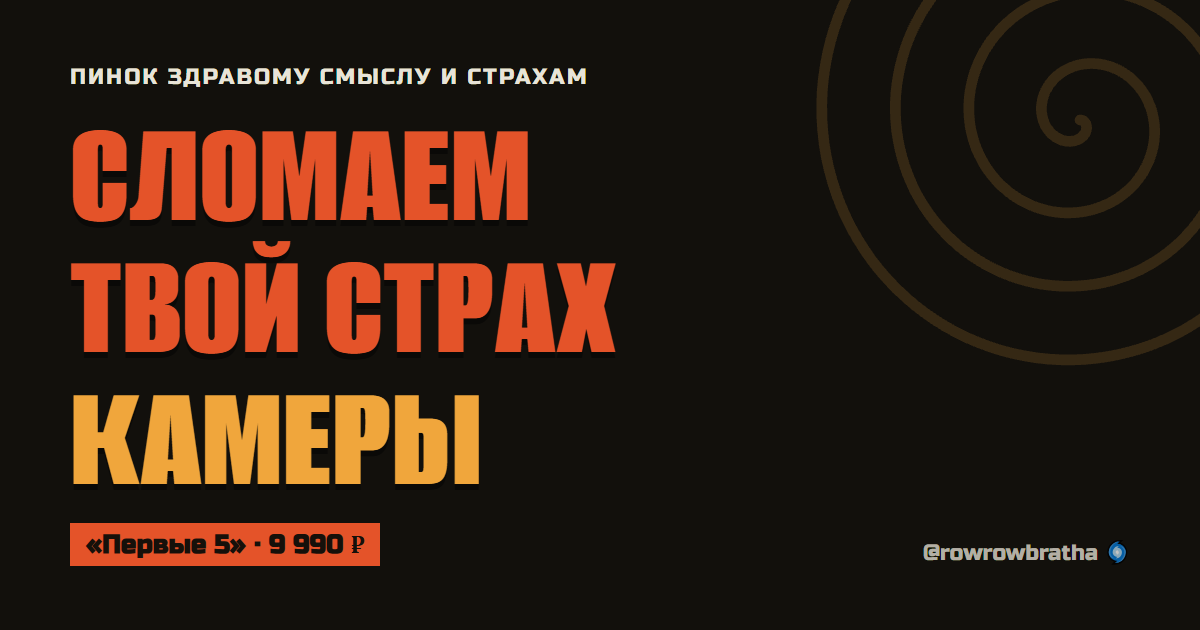
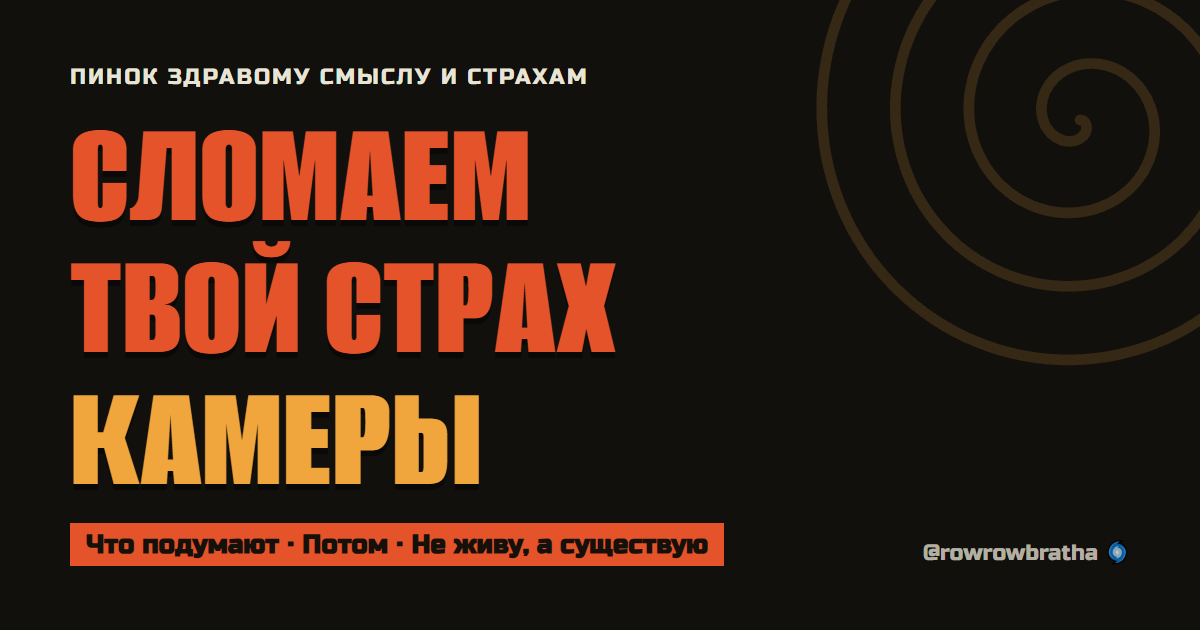
личные разборы закрыты: вместо «Первых 5» и Пинка три продукта с листом ожидания в боте; правила про оплату и возврат продуктов (решение Максима 10.10)

Changed region(s): [[0.0617, 0.8143, 0.6167, 0.9048]]

diff --git a/index.html b/index.html
@@ -4,13 +4,13 @@
 <meta charset="UTF-8">
 <meta http-equiv="Content-Security-Policy" content="default-src 'none'; script-src 'unsafe-inline'; style-src 'unsafe-inline' https://fonts.googleapis.com; font-src https://fonts.gstatic.com; img-src 'self' data:; base-uri 'self'; form-action 'self'; object-src 'none'">
 <meta name="viewport" content="width=device-width, initial-scale=1.0">
-<title>Максим | Сломаем твой страх камеры. «Первые 5»</title>
-<meta name="description" content="Боишься снимать? «Первые 5»: с мертвого профиля до 5 выложенных рилсов за месяц. По-братски, без мотивационного сиропа.">
+<title>Максим | Сломаем твой страх камеры</title>
+<meta name="description" content="Три продукта Максима по 7 дней: «Что подумают», «Потом», «Не живу, а существую». Покупаешь и проходишь сам в Telegram, без созвонов. Плюс бесплатно: квиз, методичка, ИИ-Напарник.">
 <link rel="canonical" href="https://mderyugin.github.io/dapowah/">
 <meta name="theme-color" content="#12100C">
 <meta property="og:type" content="website">
 <meta property="og:title" content="Сломаем твой страх камеры">
-<meta property="og:description" content="«Первые 5»: с мертвого профиля до 5 выложенных рилсов за месяц. 6 личных встреч. Гарантия.">
+<meta property="og:description" content="Три продукта по 7 дней: «Что подумают», «Потом», «Не живу, а существую». Покупаешь и проходишь сам, без созвонов.">
 <meta property="og:url" content="https://mderyugin.github.io/dapowah/">
 <meta property="og:image" content="https://mderyugin.github.io/dapowah/og.png">
 <meta property="og:image:width" content="1200">
@@ -185,6 +185,14 @@
   .price small{font-family:'Golos Text';font-size:.85rem;font-weight:600;display:block;letter-spacing:0;text-transform:none}
   .guarantee{font-size:.92rem;font-weight:600;border-top:2px solid var(--ink);padding-top:10px}
   .offer .cta:hover{background:var(--ink);color:var(--dark)}
+  .prods{display:grid;gap:16px;position:relative;z-index:1;margin-top:8px}
+  .prod{border:3px solid var(--ink);padding:22px 24px;display:grid;grid-template-columns:64px 1fr auto;gap:20px;align-items:center;background:rgba(18,16,12,.18)}
+  .prod-n{font-family:'Russo One';font-size:2rem;color:var(--amber);line-height:1}
+  .prod b{font-family:'Russo One';font-weight:400;text-transform:uppercase;font-size:clamp(1.2rem,2.4vw,1.6rem);display:block;margin-bottom:6px;letter-spacing:.01em}
+  .prod p{font-size:.98rem;font-weight:600;max-width:60ch}
+  .prod .cta{white-space:nowrap}
+  .prods-note{margin-top:16px;font-family:'Underdog',cursive;color:var(--amber);font-size:1.05rem;position:relative;z-index:1}
+  @media(max-width:760px){.prod{grid-template-columns:1fr;gap:10px}.prod-n{font-size:1.4rem}.prod .cta{width:100%}}
   .offer-spiral{position:absolute;right:-140px;top:-140px;width:420px;height:420px;opacity:.10;pointer-events:none;animation:spin 26s linear infinite}
 
   /* ===== STEPS / FINAL (dark) ===== */
@@ -242,7 +250,7 @@
 </style>
 </head>
 <body>
-<a class="skip" href="#offer">К программе «Первые 5»</a>
+<a class="skip" href="#offer">К продуктам</a>
 
 <!-- ============ HERO ============ -->
 <section class="hero">
@@ -259,7 +267,7 @@
     <div class="hero-spiral" id="spiral1"></div>
     <svg class="kamina" viewBox="0 0 120 90" aria-hidden="true"><path d="M66 4 L28 50 L52 50 L44 86 L92 34 L64 34 Z" fill="var(--fire)" stroke="var(--fire)" stroke-width="3" stroke-linejoin="round"/></svg>
     <h1>Сломаем<br><span class="out">твой страх</span><br><span class="inkline">камеры</span></h1>
-    <p class="hero-tag micro">«Первые 5» · 5 выложенных рилсов за месяц · 6 личных встреч</p>
+    <p class="hero-tag micro">три продукта по 7 дней · покупаешь и проходишь сам · без созвонов</p>
   </div>
 
   <div class="hero-bottom">
@@ -268,9 +276,9 @@
       <span class="hand">не веришь в себя? норм. я верю за двоих.</span>
     </p>
     <div>
-      <p class="cta-note">разбор: гляну твой профиль и скажу голосом, где течет и что чинить первым</p>
+      <p class="cta-note">«Что подумают», «Потом», «Не живу, а существую»: отметь свой, и бот пришлет его первым в день выхода</p>
       <div class="hero-cta">
-        <a class="cta" href="https://t.me/dapowah_bot?start=site">Пиши «РАЗБОР»</a>
+        <a class="cta" href="#offer">Три продукта</a>
         <a class="cta ghost" href="cab/">Забрать бесплатное</a>
       </div>
     </div>
@@ -338,54 +346,38 @@
   </div>
 </section>
 
-<!-- ============ ОФФЕР (розовый блок) ============ -->
+<!-- ============ ПРОДУКТЫ (бывший оффер «Первые 5», личная работа закрыта 10.10.2026) ============ -->
 <section class="offer" id="offer">
-  <div class="offer-five" aria-hidden="true">5</div>
+  <div class="offer-five" aria-hidden="true">3</div>
   <div class="offer-spiral" id="spiral2"></div>
   <div class="wrap">
   <div class="micro" style="color:rgba(232,228,216,.75)">[ SIDE B · ЗА ДЕНЬГИ ]</div>
-  <div class="offer-grid">
-    <div class="offer-left">
-    <h2 class="head display">Первые <span class="out">5</span></h2>
-    <p class="sub">5 выложенных рилсов за месяц и система, по которой снимаешь сам</p>
-    <p class="why">Тебе будут говорить, что страх камеры это нормально и со временем пройдет. Сам он не проходит. Мы не ждем, мы снимаем 5 роликов за месяц.</p>
-    <ul>
-      <li>Разбор профиля как тестировщик: где течет в шапке, первых секундах и первых кадрах, с точными правками</li>
-      <li>Находим твою тему и твоего зрителя, чтобы это был ты, а не косплей чужого блога</li>
-      <li>Готовый план 5 рилсов: тема, первые секунды и структура каждого. Тебе остается нажать «запись»</li>
-      <li>6 личных встреч: один разбор и по встрече на каждый ролик, пока не начнешь снимать сам</li>
-    </ul>
-    <div class="bonus">
-      <div class="bonus-title">Бонусом сверху</div>
-      <ul>
-      <li>2 недели поддержки в личке после шестой встречи, чтобы ты не пропал, когда программа кончится</li>
-      <li>Разбор цифр твоих первых роликов: смотрим, на какой секунде тебя бросают, чиним следующие</li>
-      <li>Банк 15 идей под твою тему, чтобы было что снимать дальше</li>
-      </ul>
+  <h2 class="head display">Три <span class="out">продукта</span></h2>
+  <p class="sub">7 дней каждый. Покупаешь сам, проходишь сам, прямо в Telegram</p>
+  <p class="why">Голос «не сейчас» держит тебя не только у камеры. Он же решает, что подумают свои, что подождет до понедельника и зачем вообще все это. Внутри то, через что я прошел сам, и выжимка из книг по теме. В день одно короткое чтение и одно дело минут на 10.</p>
+  <div class="prods">
+    <div class="prod">
+      <span class="prod-n">01</span>
+      <div><b>«Что подумают»</b><p>Для тех, кто перед каждым шагом прикидывает, что скажут свои: родня, коллеги, бывшие одноклассники. Новая куртка, ролик, увольнение, неважно что.</p></div>
+      <a class="cta" href="https://t.me/dapowah_bot?start=wait_chto">Хочу первым</a>
     </div>
+    <div class="prod">
+      <span class="prod-n">02</span>
+      <div><b>«Потом»</b><p>Для тех, у кого важное дело лежит месяцами, а день уходит на мелочи и ленту. Разберешь, почему ты откладываешь именно его, и сдвинешь с места.</p></div>
+      <a class="cta" href="https://t.me/dapowah_bot?start=wait_potom">Хочу первым</a>
     </div>
-    <div class="price-box">
-      <div class="price">9 990 <span class="rub">₽</span><small>6 встреч один на один · без марафонов</small></div>
-      <div class="permeet">выходит 1 665 рублей за встречу</div>
-      <div class="slots" style="font-weight:600">Можно пополам: 5 000 сейчас, 4 990 после третьей встречи.</div>
-      <div class="guarantee">Гарантия: прошел все встречи и не выложил ни одного ролика? Верну деньги.</div>
-      <div class="slots">Беру мало людей за раз: 6 встреч это 6 моих вечеров. Есть ли место в этом месяце? Жми кнопку и спроси.</div>
-      <a class="cta" href="https://t.me/dapowah_bot?start=site_price">Пиши «РАЗБОР»</a>
+    <div class="prod">
+      <span class="prod-n">03</span>
+      <div><b>«Не живу, а существую»</b><p>Для тех, кто живет на автопилоте: работа, дом, лента, и непонятно, чего хочется. Найдешь, что тебе правда нужно, без сказок про предназначение.</p></div>
+      <a class="cta" href="https://t.me/dapowah_bot?start=wait_zhivu">Хочу первым</a>
     </div>
   </div>
-
-  <div class="pinok">
-    <div>
-      <b>Не готов к «Первым 5»?</b>
-      <p>Возьми «Пинок» за 990 ₽: экспресс-разбор твоего профиля голосом, три точные правки и план первого ролика. За 48 часов. Решишь взять «Первые 5» в течение месяца? Эти 990 зачту.</p>
-    </div>
-    <a class="cta" href="https://t.me/dapowah_bot?start=pinok">Пиши «ПИНОК»</a>
-  </div>
+  <p class="prods-note">Продукты в работе. Жми «Хочу первым»: бот запомнит и пришлет тебе первым, как только выйдет.</p>
 
   <div class="pinok">
     <div>
       <b>А бесплатно есть?</b>
-      <p>Есть. «ИИ-Напарник»: помощник по рилсам, собранный на моем методе и в моем стиле. Знает пятерых поименно, разбирает начало ролика, страхи и цифры. В три ночи тоже отвечает. Первые 5 вопросов бесплатно. Это нейросеть, не живой я. Живой я по слову РАЗБОР.</p>
+      <p>Есть. «ИИ-Напарник»: помощник по рилсам, собранный на моем методе и в моем стиле. Знает пятерых поименно, разбирает начало ролика, страхи и цифры. В три ночи тоже отвечает. Первые 5 вопросов бесплатно. Это нейросеть, не живой я.</p>
     </div>
     <a class="cta ghost" href="https://t.me/dapowah_bot?start=site_ai">Спросить ИИ-Напарника</a>
   </div>
@@ -395,14 +387,14 @@
 <!-- ============ КАК ПРОХОДИТ + ФИНАЛ ============ -->
 <section class="final">
   <div class="wrap">
-  <div class="micro" style="color:var(--grey)">[ 6 ВСТРЕЧ · БЕЗ МАРАФОНОВ ]</div>
+  <div class="micro" style="color:var(--grey)">[ 7 ДНЕЙ · БЕЗ СОЗВОНОВ ]</div>
   <h2 class="head display">Как это <span>проходит</span></h2>
   <ol class="steps">
-    <li>Пишешь «РАЗБОР» боту и отвечаешь на три коротких вопроса о себе</li>
-    <li>Смотрю профиль до созвона, выписываю, что бросается в глаза</li>
-    <li>Первый ролик выходит уже на первой встрече. Барьер падает сразу</li>
-    <li>Все, что решаем, отправляю текстом. Ничего не теряется</li>
-    <li>Через пару дней спрошу: «ну что, снял?» И это сработает</li>
+    <li>Жмешь «Хочу первым» под своим продуктом, бот запоминает</li>
+    <li>В день выхода бот присылает его тебе первым</li>
+    <li>Платишь один раз прямо в Telegram</li>
+    <li>День 1 приходит сразу, дальше по дню в сутки</li>
+    <li>Каждый день: короткое чтение и одно дело минут на 10</li>
   </ol>
 
   <p class="doubt">Сомневаешься? Нормально. Сомнение и есть тот голос, про который весь мой блог. Я знаю цену этой веры: месяцы «подготовки», удаленные ролики, чужие блоги, которые растут.</p>
@@ -412,12 +404,12 @@
   <footer class="micro">
     <span>Максим · rowrowbratha</span>
     <span><a href="https://instagram.com/rowrowbratha">Instagram</a> · <a href="https://t.me/rowrowbratha">Telegram-канал</a> · <a href="legal/">Правила и данные, без мелкого шрифта</a></span>
-    <span>отзывы · только реальные, с первыми клиентами</span>
+    <span>отзывы · только реальные, с первыми покупателями</span>
   </footer>
   </div>
 </section>
 
-<div class="sticky-cta"><a class="cta" href="https://t.me/dapowah_bot?start=site_sticky">Пиши «РАЗБОР»</a></div>
+<div class="sticky-cta"><a class="cta" href="#offer">Три продукта</a></div>
 
 <script>
 (function(){

diff --git a/cab/index.html b/cab/index.html
@@ -59,9 +59,8 @@
 
   <div class="sect">Дальше</div>
   <a class="card" href="https://t.me/rowrowbratha"><b>Канал</b><span>разборы, дубли, цифры и провалы, все живое</span></a>
-  <a class="card" href="https://mderyugin.github.io/dapowah/" target="_blank" rel="noopener"><b>🔥 Сайт: «Первые 5»</b><span>кто я, что за программа и сколько стоит</span></a>
-  <button class="card" onclick="razbor('pinok')"><b>👊 Пинок за 990 рублей</b><span>экспресс-разбор профиля голосом за 48 часов. Напиши боту слово ПИНОК. Возьмешь потом «Первые 5»? 990 зачтутся</span></button>
-  <button class="card" onclick="razbor('razbor')"><b>✍ Разбор профиля от Максима</b><span>«Первые 5»: разбор профиля, план 5 рилсов и 6 личных встреч. Напиши боту слово РАЗБОР, ответит лично</span></button>
+  <a class="card" href="https://mderyugin.github.io/dapowah/" target="_blank" rel="noopener"><b>🔥 Сайт</b><span>кто я и что за продукты</span></a>
+  <button class="card" onclick="prods()"><b>⚡ Три продукта Максима</b><span>«Что подумают», «Потом», «Не живу, а существую». 7 дней каждый, проходишь сам. Отметь свой, пришлю первым</span></button>
 
   <p style="color:var(--grey);font-size:11.5px;line-height:1.5;margin-top:18px"><a href="../legal/" target="_blank" style="color:var(--grey)">Правила и данные, без мелкого шрифта</a>. Стереть свои данные: слово УДАЛИ боту</p>
 </div>
@@ -75,7 +74,7 @@
 <div id="art">
   <span class="back" onclick="artBack()">← Назад</span>
   <div id="artbody"></div>
-  <button class="cta" onclick="razbor('article')">Написать РАЗБОР Максиму</button>
+  <button class="cta" onclick="prods()">Три продукта Максима</button>
 </div>
 
 <script>
@@ -165,7 +164,11 @@ tg?.BackButton?.onClick(()=>{
   else { show('hub'); }
 });
 
-function razbor(src){ if(inTG){tg.close()} else {location.href=BOT+"?start=cab_"+(src||"razbor")} }
+async function prods(){
+  // запрос ждем до закрытия окна: телеграм убивает мини-апп раньше, чем уйдет fetch
+  if(tg?.initData){try{await fetch("https://dapowah-bot.mdklurk.workers.dev/trainer/prods",{method:"POST",headers:{"Content-Type":"application/json"},body:JSON.stringify({initData:tg.initData})})}catch(e){} tg.close()}
+  else location.href="https://t.me/dapowah_bot?start=prods";
+}
 async function club(btn){
   const label=btn?.querySelector('b');const old=label?.textContent;
   if(btn){btn.disabled=true;if(label)label.textContent='Открываю оплату...'}

diff --git a/quiz/index.html b/quiz/index.html
@@ -176,9 +176,9 @@ function result(){
    `<div class="kicker">как он звучит</div><div class="frame">${r.rep}</div><p>${r.mech}</p>`,
    `<div class="kicker">почему это не «просто характер»</div><p>${r.mech.split(".")[0]}.</p><p class="pf" style="margin-top:16px"><b>По Прессфилду («Война за креатив»)</b><br>${r.pf}</p>`,
    `<div class="kicker">что делать</div><div class="priem"><b>Прием против него</b>${r.priem}</div><p class="grey" style="margin-top:14px">Это действие руками, а не «поверь в себя». Работает с первого раза, если сделать, а не прочитать.</p>`,
-   `<div class="kicker">дальше сам решай</div><h2>Их пятеро, и они ходят вместе</h2><p>Все пятеро, поименно и с приемами, собраны в методичке. А какие рулят именно у тебя и в каком порядке их ломать, Максим разбирает лично.</p>
+   `<div class="kicker">дальше сам решай</div><h2>Их пятеро, и они ходят вместе</h2><p>Все пятеро, поименно и с приемами, собраны в методичке. А если этот голос мешает не только у камеры, у Максима в работе три продукта по 7 дней.</p>
     <div class="cta-stack">
-      <button class="btn" style="border:0;cursor:pointer" onclick="askRazbor()">Написать РАЗБОР Максиму</button>
+      <button class="btn" style="border:0;cursor:pointer" onclick="prods()">Три продукта Максима</button>
       <button class="cta2" style="background:none;cursor:pointer" onclick="share()">Забрать карточку в сторис</button>
       <a class="cta2" style="text-decoration:none;text-align:center" href="https://t.me/rowrowbratha/70">Методичка: все пятеро</a>
     </div>`
@@ -226,6 +226,11 @@ function wrap(x,t,cx,cy,max,lh){
   const w=t.split(' ');let line='',y=cy;
   for(const word of w){const test=line+word+' ';if(x.measureText(test).width>max&&line){x.fillText(line.trim(),cx,y);line=word+' ';y+=lh}else line=test}
   x.fillText(line.trim(),cx,y);
+}
+async function prods(){
+  // запрос ждем до закрытия окна: телеграм убивает мини-апп раньше, чем уйдет fetch
+  if(tg?.initData){try{await fetch("https://dapowah-bot.mdklurk.workers.dev/trainer/prods",{method:"POST",headers:{"Content-Type":"application/json"},body:JSON.stringify({initData:tg.initData})})}catch(e){} tg.close()}
+  else location.href="https://t.me/dapowah_bot?start=prods";
 }
 function askRazbor(){
   // диагноз уезжает в бота: /start quiz_<паттерн>, Максим видит врага человека в заявке

diff --git a/trainer/index.html b/trainer/index.html
@@ -105,11 +105,11 @@
 </div>
 
 <div id="done">
-  <p>Пять бесплатных раундов отработаны. Дальше два пути. ИИ-Напарник без лимита, 399 звезд в месяц. Или «Первые 5» от Максима: разбор профиля, план 5 рилсов и 6 личных встреч, 9 990 рублей.</p>
+  <p>Пять бесплатных раундов отработаны. Дальше ИИ-Напарник без лимита, 399 звезд в месяц. А если затык глубже роликов, у Максима три продукта по 7 дней: «Что подумают», «Потом», «Не живу, а существую».</p>
   <button class="cta-fire" style="width:100%;margin-bottom:8px" onclick="club()">ИИ-Напарник без лимита, 399 звезд в месяц</button>
   <p style="color:#9BA093;font-size:11px;margin:0 0 8px;text-align:center">Продлевается сам, отмена в два клика в настройках Telegram</p>
   <div class="row">
-    <button class="cta-line" onclick="toRazbor()">Разбор</button>
+    <button class="cta-line" onclick="toProds()">Продукты</button>
     <a class="cta-line" href="https://t.me/rowrowbratha">Канал</a>
   </div>
 </div>
@@ -169,6 +169,10 @@ function ammoDraw(){
   document.getElementById('ammo').textContent=left?'▮'.repeat(left):'пусто';
   if(left===0){document.getElementById('bar').style.display='none';document.getElementById('chips').style.display='none';document.getElementById('done').style.display='block'}
 }
+async function toProds(){
+  try{await fetch(API+'/trainer/prods',{method:'POST',headers:{'Content-Type':'application/json'},body:JSON.stringify({initData:tg.initData})})}catch(e){}
+  if(tg&&tg.close){tg.close()} else {location.href="https://t.me/dapowah_bot?start=prods"}
+}
 async function toRazbor(){
   // запрос ждем до закрытия окна: телеграм убивает мини-апп раньше, чем уйдет fetch
   try{await fetch(API+'/trainer/razbor',{method:'POST',headers:{'Content-Type':'application/json'},body:JSON.stringify({initData:tg.initData})})}catch(e){}
@@ -194,7 +198,7 @@ async function init(){
     if(who){const w=document.getElementById('who');w.textContent=who;w.style.display='block'}
     if(j.hist&&j.hist.length){for(const m of j.hist)add(m.role==='user'?'me':'bot',m.content)}
     else add('bot',welcomeText(j));
-    if(!j.on)add('sys','ИИ-Напарник сейчас спит. Загляни позже или напиши боту слово РАЗБОР');
+    if(!j.on)add('sys','ИИ-Напарник сейчас спит. Загляни позже');
     ammoDraw();
   }catch(e){add('sys','Сеть моргнула. Закрой и открой заново')}
 }

diff --git a/legal/index.html b/legal/index.html
@@ -52,8 +52,14 @@
 <h2>Как все стереть</h2>
 <p>Напиши боту слово <b>УДАЛИ</b>. Твоя запись сотрется целиком: счет, диалоги, результат квиза, все. Это необратимо, но вернуться можно всегда: просто напиши /start заново.</p>
 
-<h2>Платные услуги</h2>
-<p>«Пинок» и «Первые 5» обсуждаются и оплачиваются лично с Максимом в переписке. Цена, состав и гарантия называются прямо и до оплаты. Условия возврата по «Первым 5»: прошел все встречи и не выложил ни одного ролика? Деньги возвращаются.</p>
+<h2>Продукты «Что подумают», «Потом», «Не живу, а существую»</h2>
+<ul>
+  <li>Что это: текстовые программы на 7 дней внутри бота. Каждый день бот присылает короткое чтение и одно задание.</li>
+  <li>Оплата: один раз, Telegram Stars внутри Telegram. Цена видна в боте до оплаты. Подписки тут нет, ничего не продлевается.</li>
+  <li>Доступ: день 1 сразу после оплаты, дальше по дню в сутки. Купленное остается твоим: слово «мои покупки» присылает текущий день заново. Тексты защищены от пересылки и сохранения средствами Telegram.</li>
+  <li>Возврат: в первые 24 часа после покупки напиши боту слово ВОЗВРАТ, звезды вернутся сами, без вопросов, доступ снимется. Команда /paysupport делает то же самое.</li>
+  <li>Личных разборов и встреч Максим не проводит.</li>
+</ul>
 
 <h2>Подписка «ИИ-Напарник без лимита»</h2>
 <ul>
